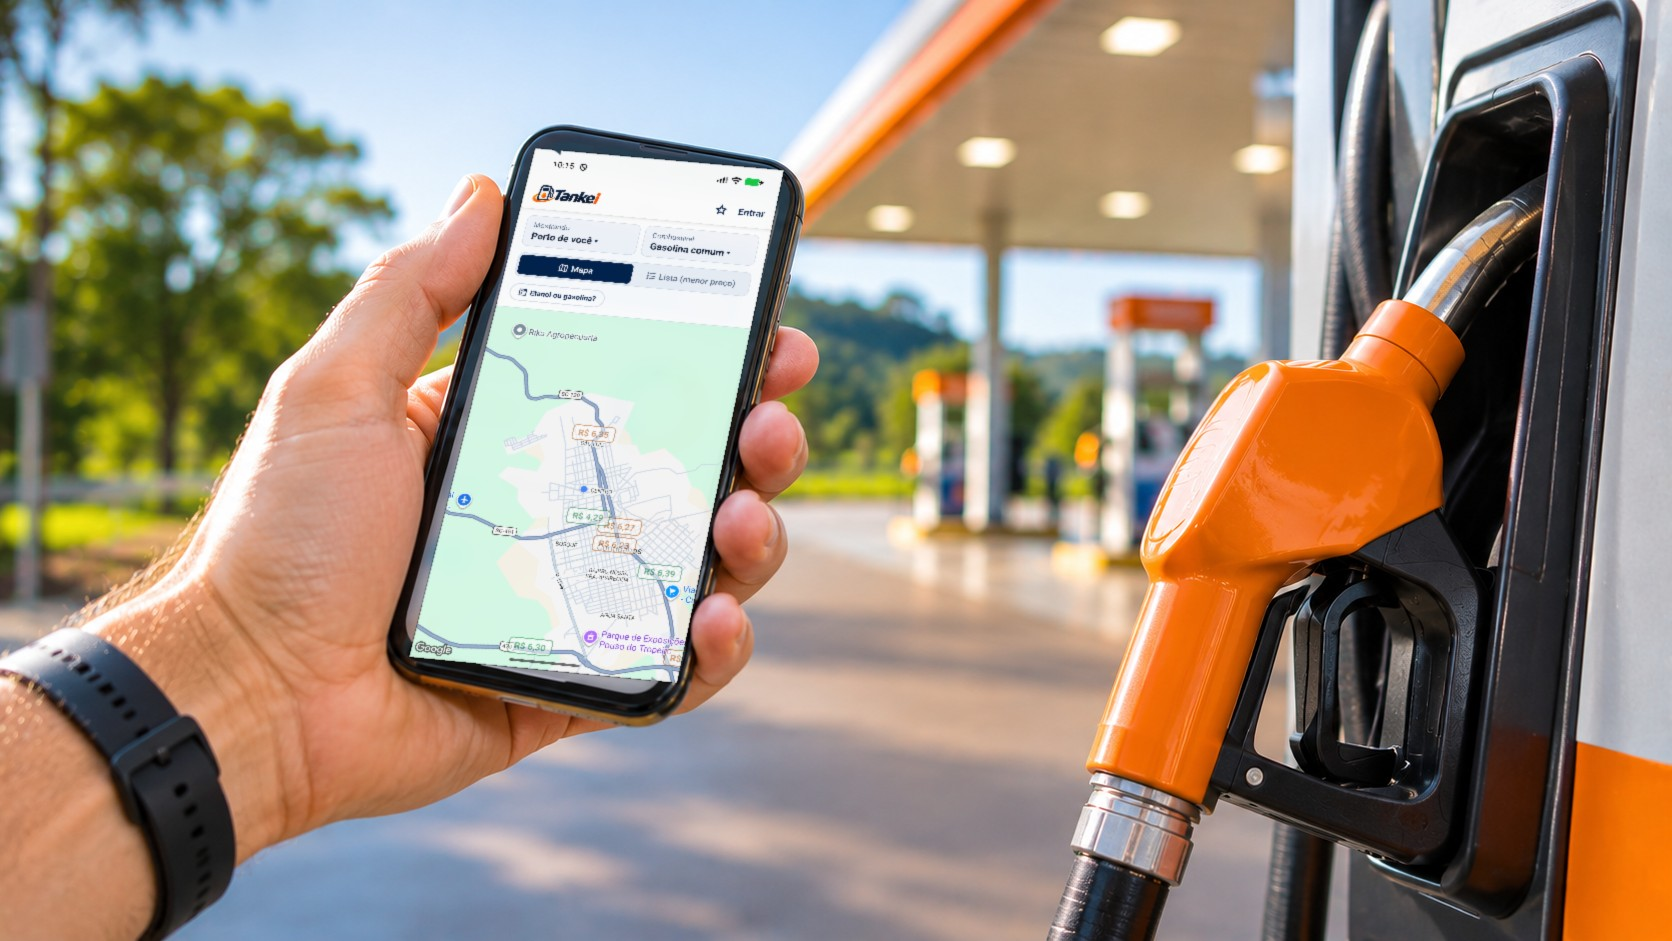
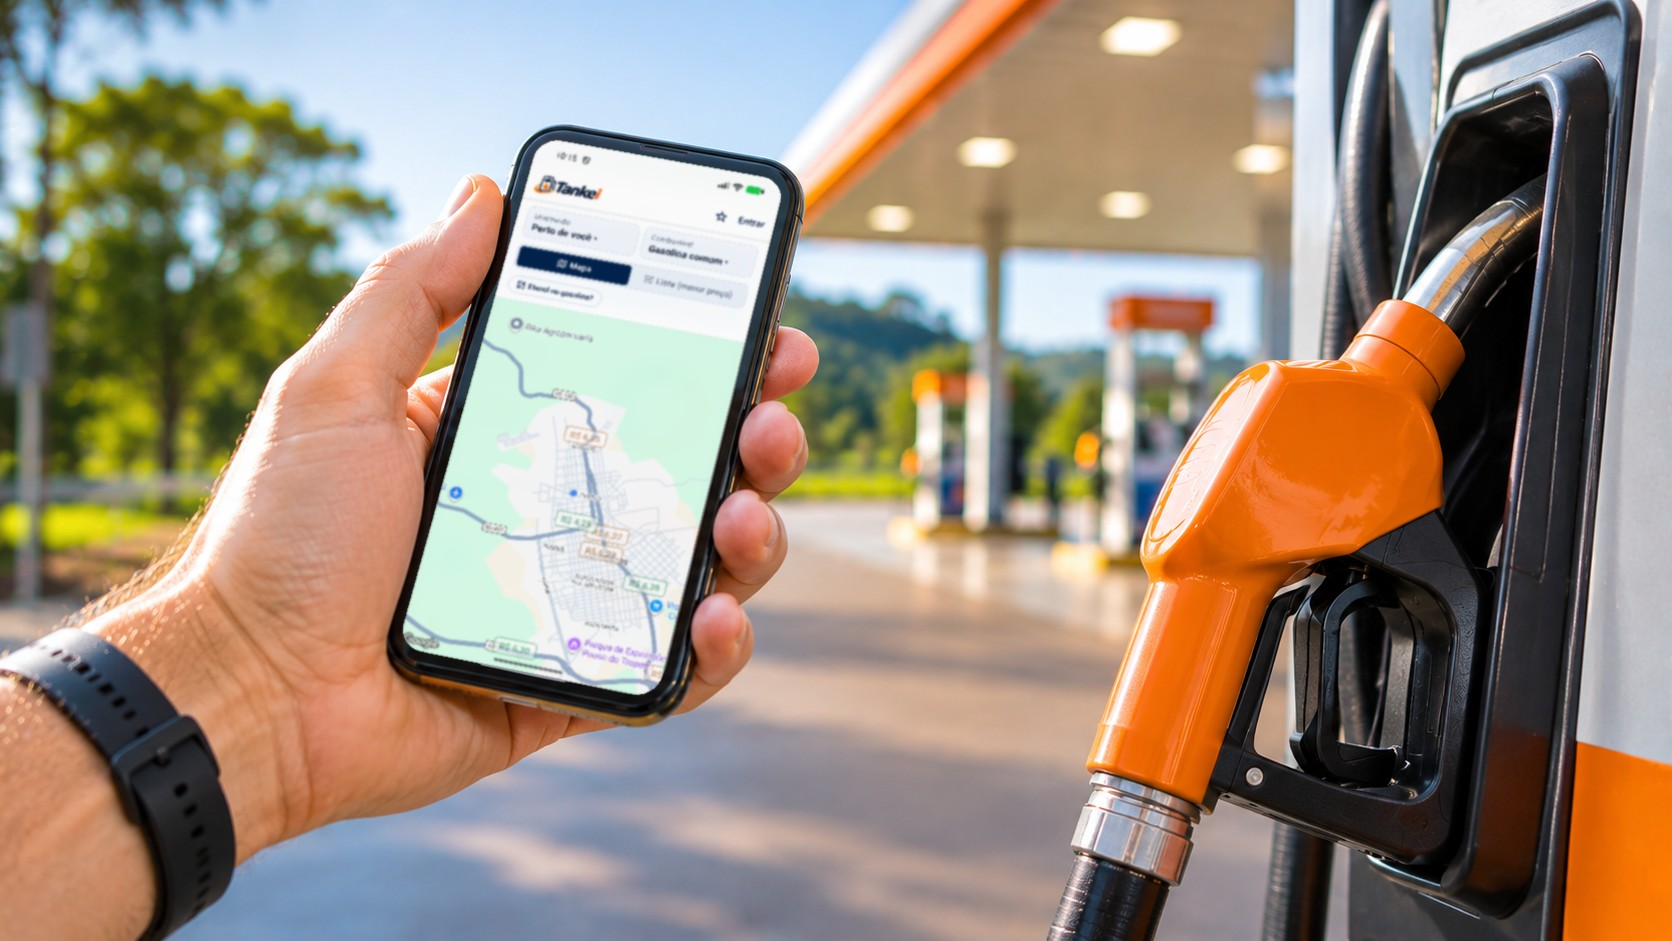
fix(site): encaixe da tela do celular na foto da origem dos preços
O print do app agora ocupa a tela inteira até a moldura, com os cantos
arredondados e o desfoque da foto. A prévia de links foi refeita.

Changed region(s): [[0.2488, 0.1541, 0.4665, 0.7396], [0.4354, 0.4006, 0.4665, 0.4315], [0.2177, 0.6472, 0.2488, 0.678]]

diff --git a/docs/adr/0043-site-oficial.md b/docs/adr/0043-site-oficial.md
@@ -36,7 +36,7 @@ O autor decidiu fazer o site com o que já está decidido.
   Imagens geradas por IA, se o autor quiser, entram no mesmo lugar.
 - **Foto da seção "Cada preço mostra de onde veio" (2026-11-16):**
   - imagem gerada pelo autor no ChatGPT (geração de imagens), em 16/11/2026, com o prompt 3 do roteiro de imagens (mão segurando o celular ao lado da bomba);
-  - a tela genérica foi trocada por um print real do app (mapa de Curitibanos, gasolina comum), feito no emulador com a API de teste e encaixado com correção de perspectiva;
+  - a tela genérica foi trocada por um print real do app (mapa de Curitibanos, gasolina comum), feito no emulador com a API de teste e encaixado com correção de perspectiva; o encaixe foi refeito com a área da tela detectada na foto (bordas ajustadas por reta, cantos arredondados e o desfoque da foto);
   - a lista não foi usada porque mostra nomes e bandeiras de postos reais com preços fictícios do ambiente de teste;
   - a foto substitui a ilustração dos cartões de preço; o topo do início continua com o celular desenhado;
   - a matriz fica em `apps/site/art/preco-origem.jpg`, e as versões publicadas ficam em `public/img/`: WebP de 560 e 900 px e o JPEG de 1200×630, usado também como prévia de links (`og:image`).
